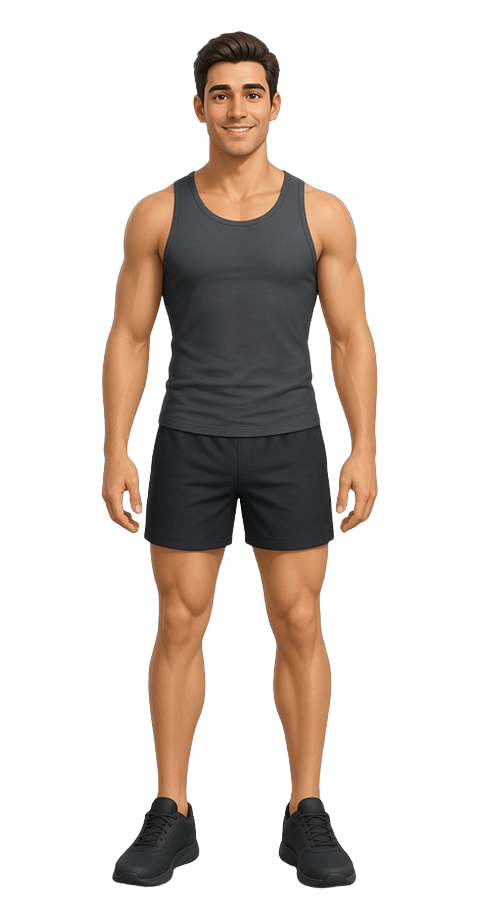
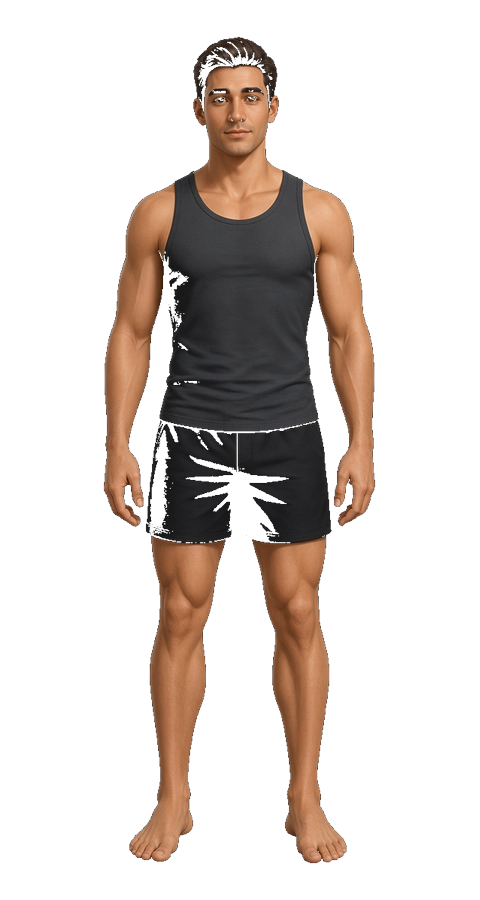
Upgrade all personas to photoreal consistent turn frames
Replace stylized bases with high-fidelity photoreal fronts and
matching side/back frames so 180° rotation keeps identity, pose,
and lighting consistent across every persona.

diff --git a/smart-fashion-finder/src/constants/avatarAssets.ts b/smart-fashion-finder/src/constants/avatarAssets.ts
@@ -33,19 +33,47 @@ const MAN_TURN: Record<TurnYaw, ImageSourcePropType> = {
   180: require('../../assets/images/bases/turn/man_180.png'),
 };
 
-const WOMAN_TURN: Partial<Record<TurnYaw, ImageSourcePropType>> = {
+const WOMAN_TURN: Record<TurnYaw, ImageSourcePropType> = {
   0: require('../../assets/images/bases/turn/woman_0.png'),
+  45: require('../../assets/images/bases/turn/woman_45.png'),
   90: require('../../assets/images/bases/turn/woman_90.png'),
+  135: require('../../assets/images/bases/turn/woman_135.png'),
   180: require('../../assets/images/bases/turn/woman_180.png'),
 };
 
-/** היפוך אופקי מוכן מראש לילדה/ילד/נער — גיבוי ל־180° בלי פריימי גב מצוירים */
-const MIRROR_TURN_180: Partial<Record<AvatarPersona, ImageSourcePropType>> = {
-  girl: require('../../assets/images/bases/turn/girl_180.png'),
-  boy: require('../../assets/images/bases/turn/boy_180.png'),
-  teenGirl: require('../../assets/images/bases/turn/teenGirl_180.png'),
-  teenBoy: require('../../assets/images/bases/turn/teenBoy_180.png'),
+/** פריימי סיבוב פוטוריאליסטיים — ילדה/ילד/נער (0 / 90 / 180) */
+const GIRL_TURN: Partial<Record<TurnYaw, ImageSourcePropType>> = {
+  0: require('../../assets/images/bases/turn/girl_0.png'),
+  90: require('../../assets/images/bases/turn/girl_90.png'),
+  180: require('../../assets/images/bases/turn/girl_180.png'),
 };
+const BOY_TURN: Partial<Record<TurnYaw, ImageSourcePropType>> = {
+  0: require('../../assets/images/bases/turn/boy_0.png'),
+  90: require('../../assets/images/bases/turn/boy_90.png'),
+  180: require('../../assets/images/bases/turn/boy_180.png'),
+};
+const TEEN_GIRL_TURN: Partial<Record<TurnYaw, ImageSourcePropType>> = {
+  0: require('../../assets/images/bases/turn/teenGirl_0.png'),
+  90: require('../../assets/images/bases/turn/teenGirl_90.png'),
+  180: require('../../assets/images/bases/turn/teenGirl_180.png'),
+};
+const TEEN_BOY_TURN: Partial<Record<TurnYaw, ImageSourcePropType>> = {
+  0: require('../../assets/images/bases/turn/teenBoy_0.png'),
+  90: require('../../assets/images/bases/turn/teenBoy_90.png'),
+  180: require('../../assets/images/bases/turn/teenBoy_180.png'),
+};
+
+function pickTurnFrame(
+  table: Partial<Record<TurnYaw, ImageSourcePropType>>,
+  yaw: number,
+  fallback: ImageSourcePropType,
+): ImageSourcePropType {
+  const frame = nearestTurnYaw(yaw);
+  if (table[frame]) return table[frame]!;
+  if (frame <= 45) return table[0] ?? fallback;
+  if (frame <= 135) return table[90] ?? table[0] ?? fallback;
+  return table[180] ?? table[90] ?? table[0] ?? fallback;
+}
 
 /** לוקים מלאים — בגד לבוש על הדמות (חזית) */
 export const FITTED_LOOKS_MAN: Record<string, ImageSourcePropType> = {
@@ -260,48 +288,40 @@ export function nearestTurnYaw(yaw: number): TurnYaw {
   return best;
 }
 
-/** האם לדמות יש פריימי סיבוב ייעודיים (קדמי/אחורי) */
-export function personaHasTurnFrames(persona: AvatarPersona): boolean {
-  // כולם: גבר/אישה מצוירים; ילדה/ילד/נער — בסיס 180° ייעודי
-  return (
-    persona === 'man' ||
-    persona === 'woman' ||
-    persona === 'girl' ||
-    persona === 'boy' ||
-    persona === 'teenGirl' ||
-    persona === 'teenBoy'
-  );
+/** האם לדמות יש פריימי סיבוב ייעודיים */
+export function personaHasTurnFrames(_persona: AvatarPersona): boolean {
+  return true;
 }
 
-/** פריימי גב מצוירים אמיתיים (לא רק בסיס 180) — בלי היפוך שכבות בגד */
-export function personaHasPaintedTurn(persona: AvatarPersona): boolean {
-  return persona === 'man' || persona === 'woman';
+/** פריימי סיבוב מצוירים אמיתיים (לא היפוך CSS) — כל ה־personas */
+export function personaHasPaintedTurn(_persona: AvatarPersona): boolean {
+  return true;
 }
 
 /**
- * בסיס הדמות לפי persona — ילדה/ילד/נער מקבלים את התמונה שלהם,
- * לא גבר/אישה. ב־180° משתמשים ב־PNG מורחב (מראה) כשאין פריימי גב.
+ * בסיס הדמות לפי persona + זווית — פריימים פוטוריאליסטיים עקביים.
  */
 export function turnBaseForPersona(
   persona: AvatarPersona,
   yaw: number,
 ): ImageSourcePropType {
-  if (persona === 'man') {
-    return MAN_TURN[nearestTurnYaw(yaw)];
+  const fallback = PERSONA_BASE_IMAGES[persona];
+  switch (persona) {
+    case 'man':
+      return MAN_TURN[nearestTurnYaw(yaw)];
+    case 'woman':
+      return WOMAN_TURN[nearestTurnYaw(yaw)];
+    case 'girl':
+      return pickTurnFrame(GIRL_TURN, yaw, fallback);
+    case 'boy':
+      return pickTurnFrame(BOY_TURN, yaw, fallback);
+    case 'teenGirl':
+      return pickTurnFrame(TEEN_GIRL_TURN, yaw, fallback);
+    case 'teenBoy':
+      return pickTurnFrame(TEEN_BOY_TURN, yaw, fallback);
+    default:
+      return fallback;
   }
-  if (persona === 'woman') {
-    const frame = nearestTurnYaw(yaw);
-    const exact = WOMAN_TURN[frame];
-    if (exact) return exact;
-    if (frame <= 45) return WOMAN_TURN[0]!;
-    if (frame <= 135) return WOMAN_TURN[90]!;
-    return WOMAN_TURN[180]!;
-  }
-  // ילד / ילדה / נער / נערה — בסיס ייעודי; ב־180° קובץ מראה מוכן
-  if (yaw > 90 && MIRROR_TURN_180[persona]) {
-    return MIRROR_TURN_180[persona]!;
-  }
-  return PERSONA_BASE_IMAGES[persona];
 }
 
 export function fittedLookForId(
